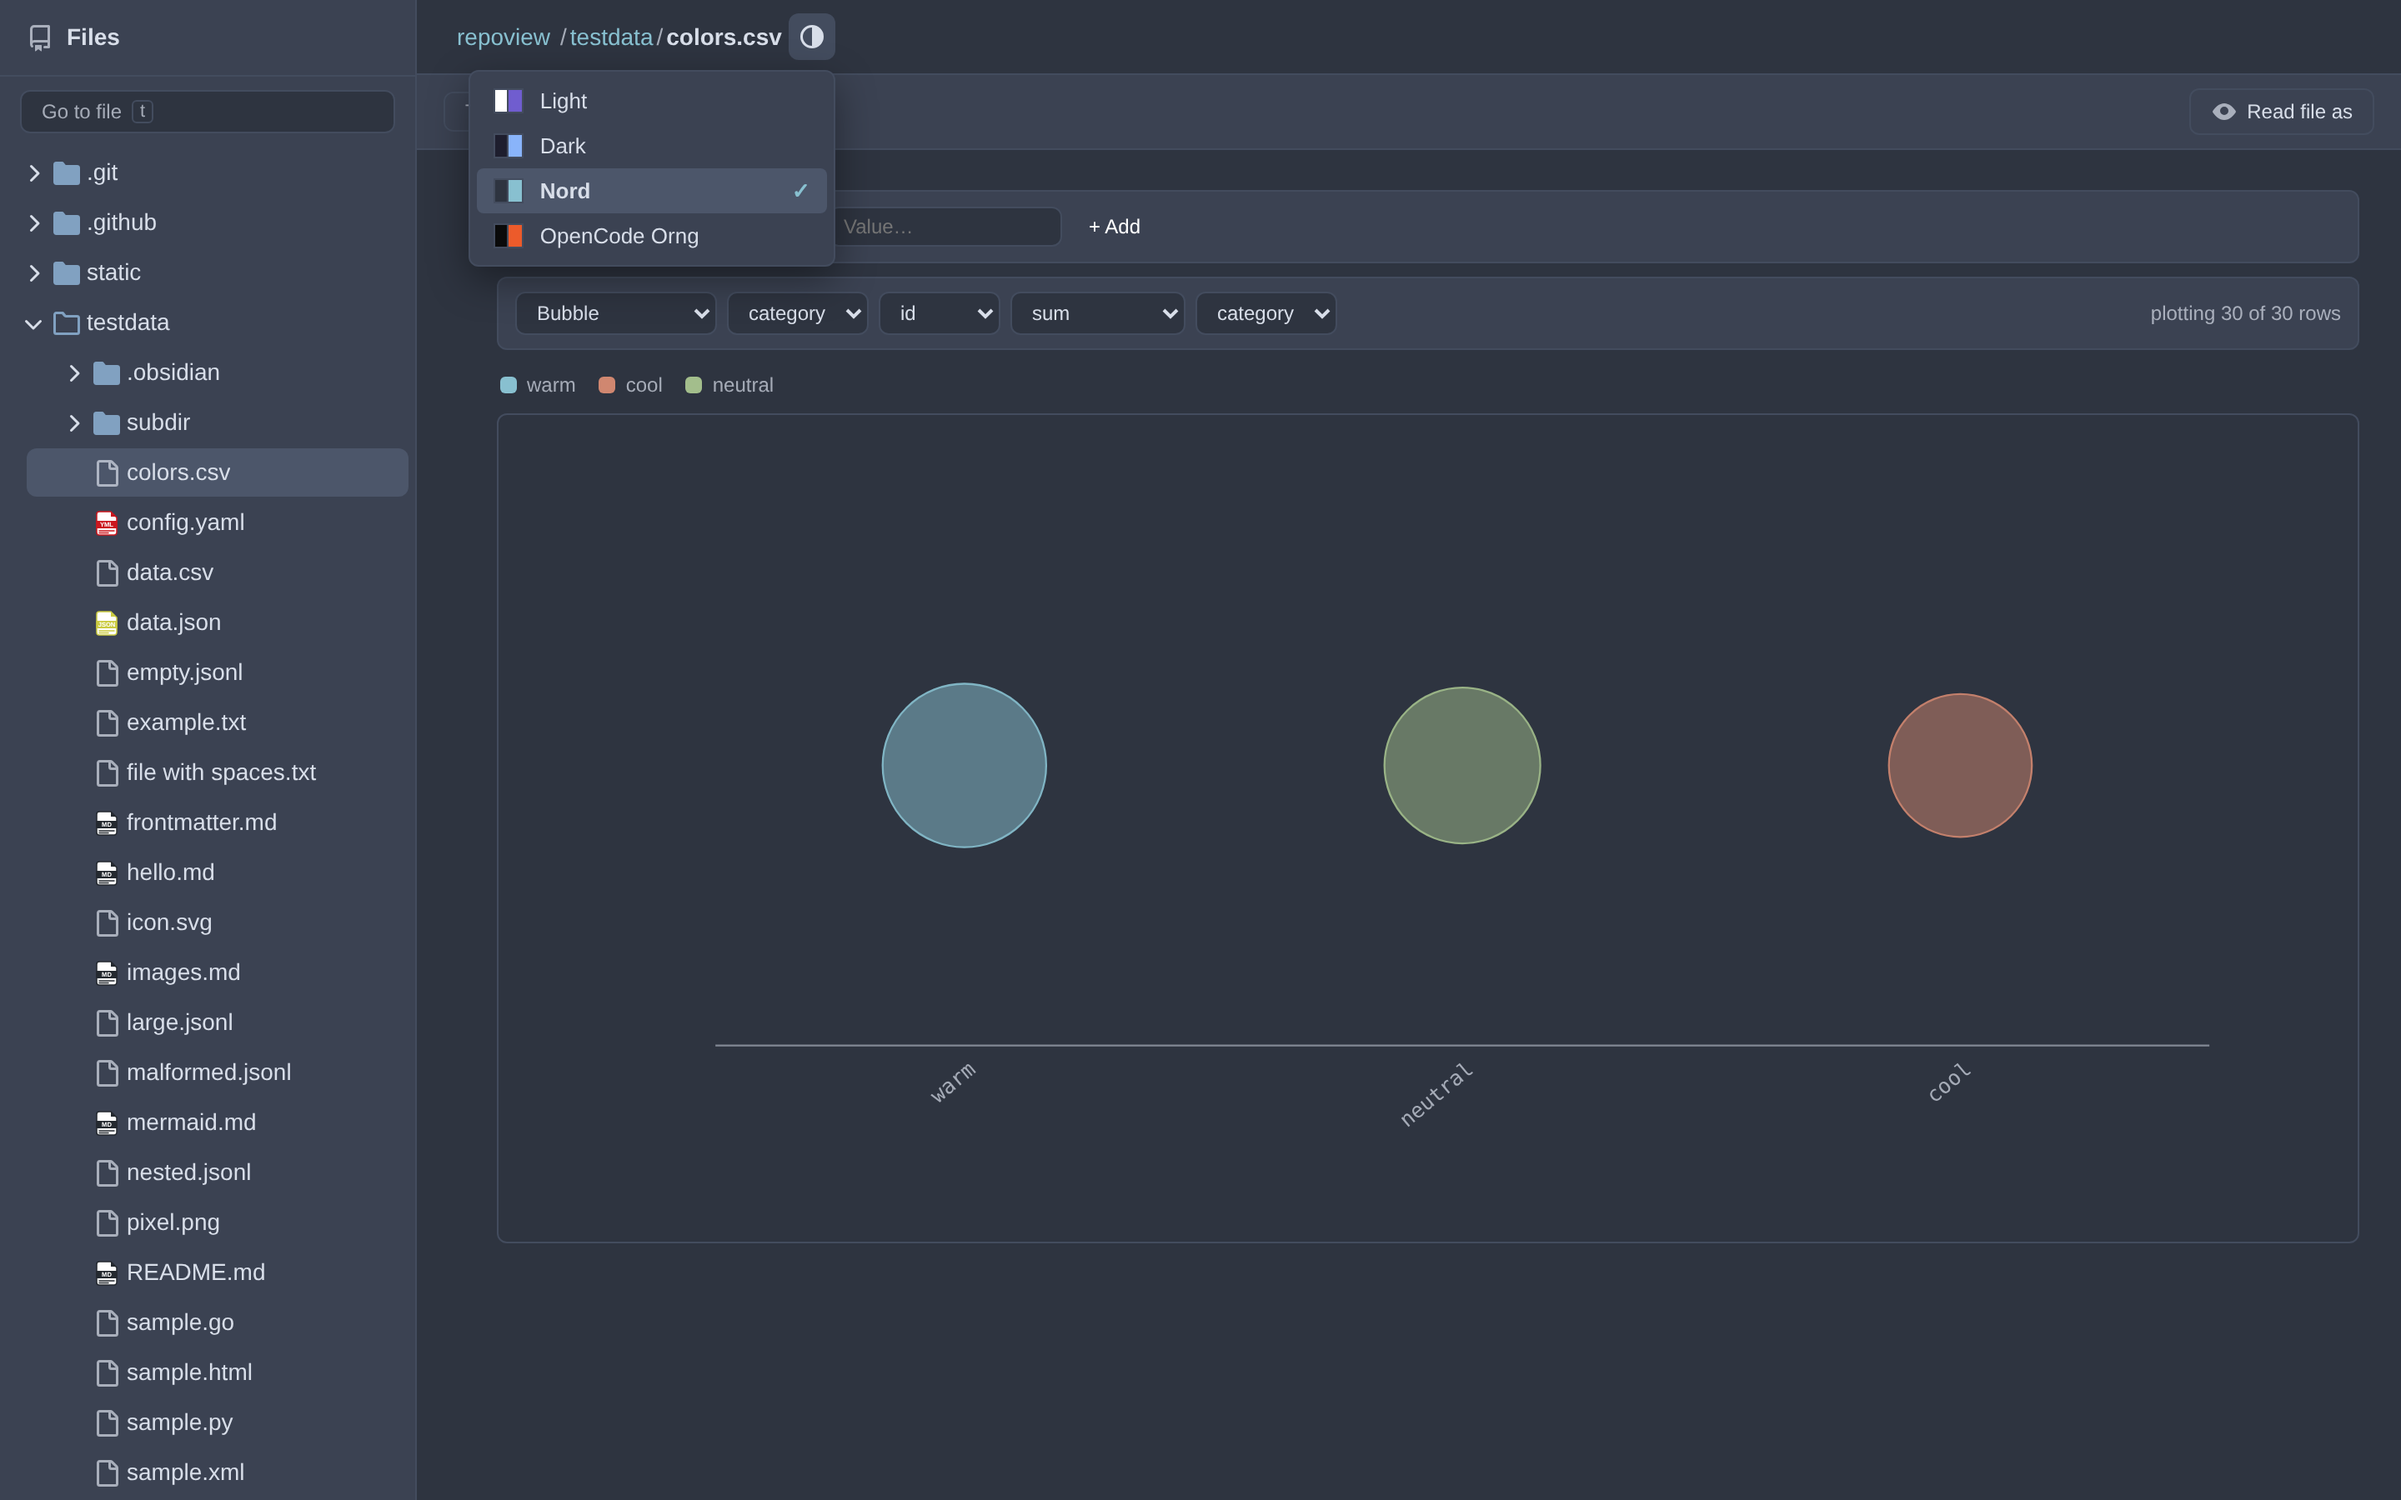
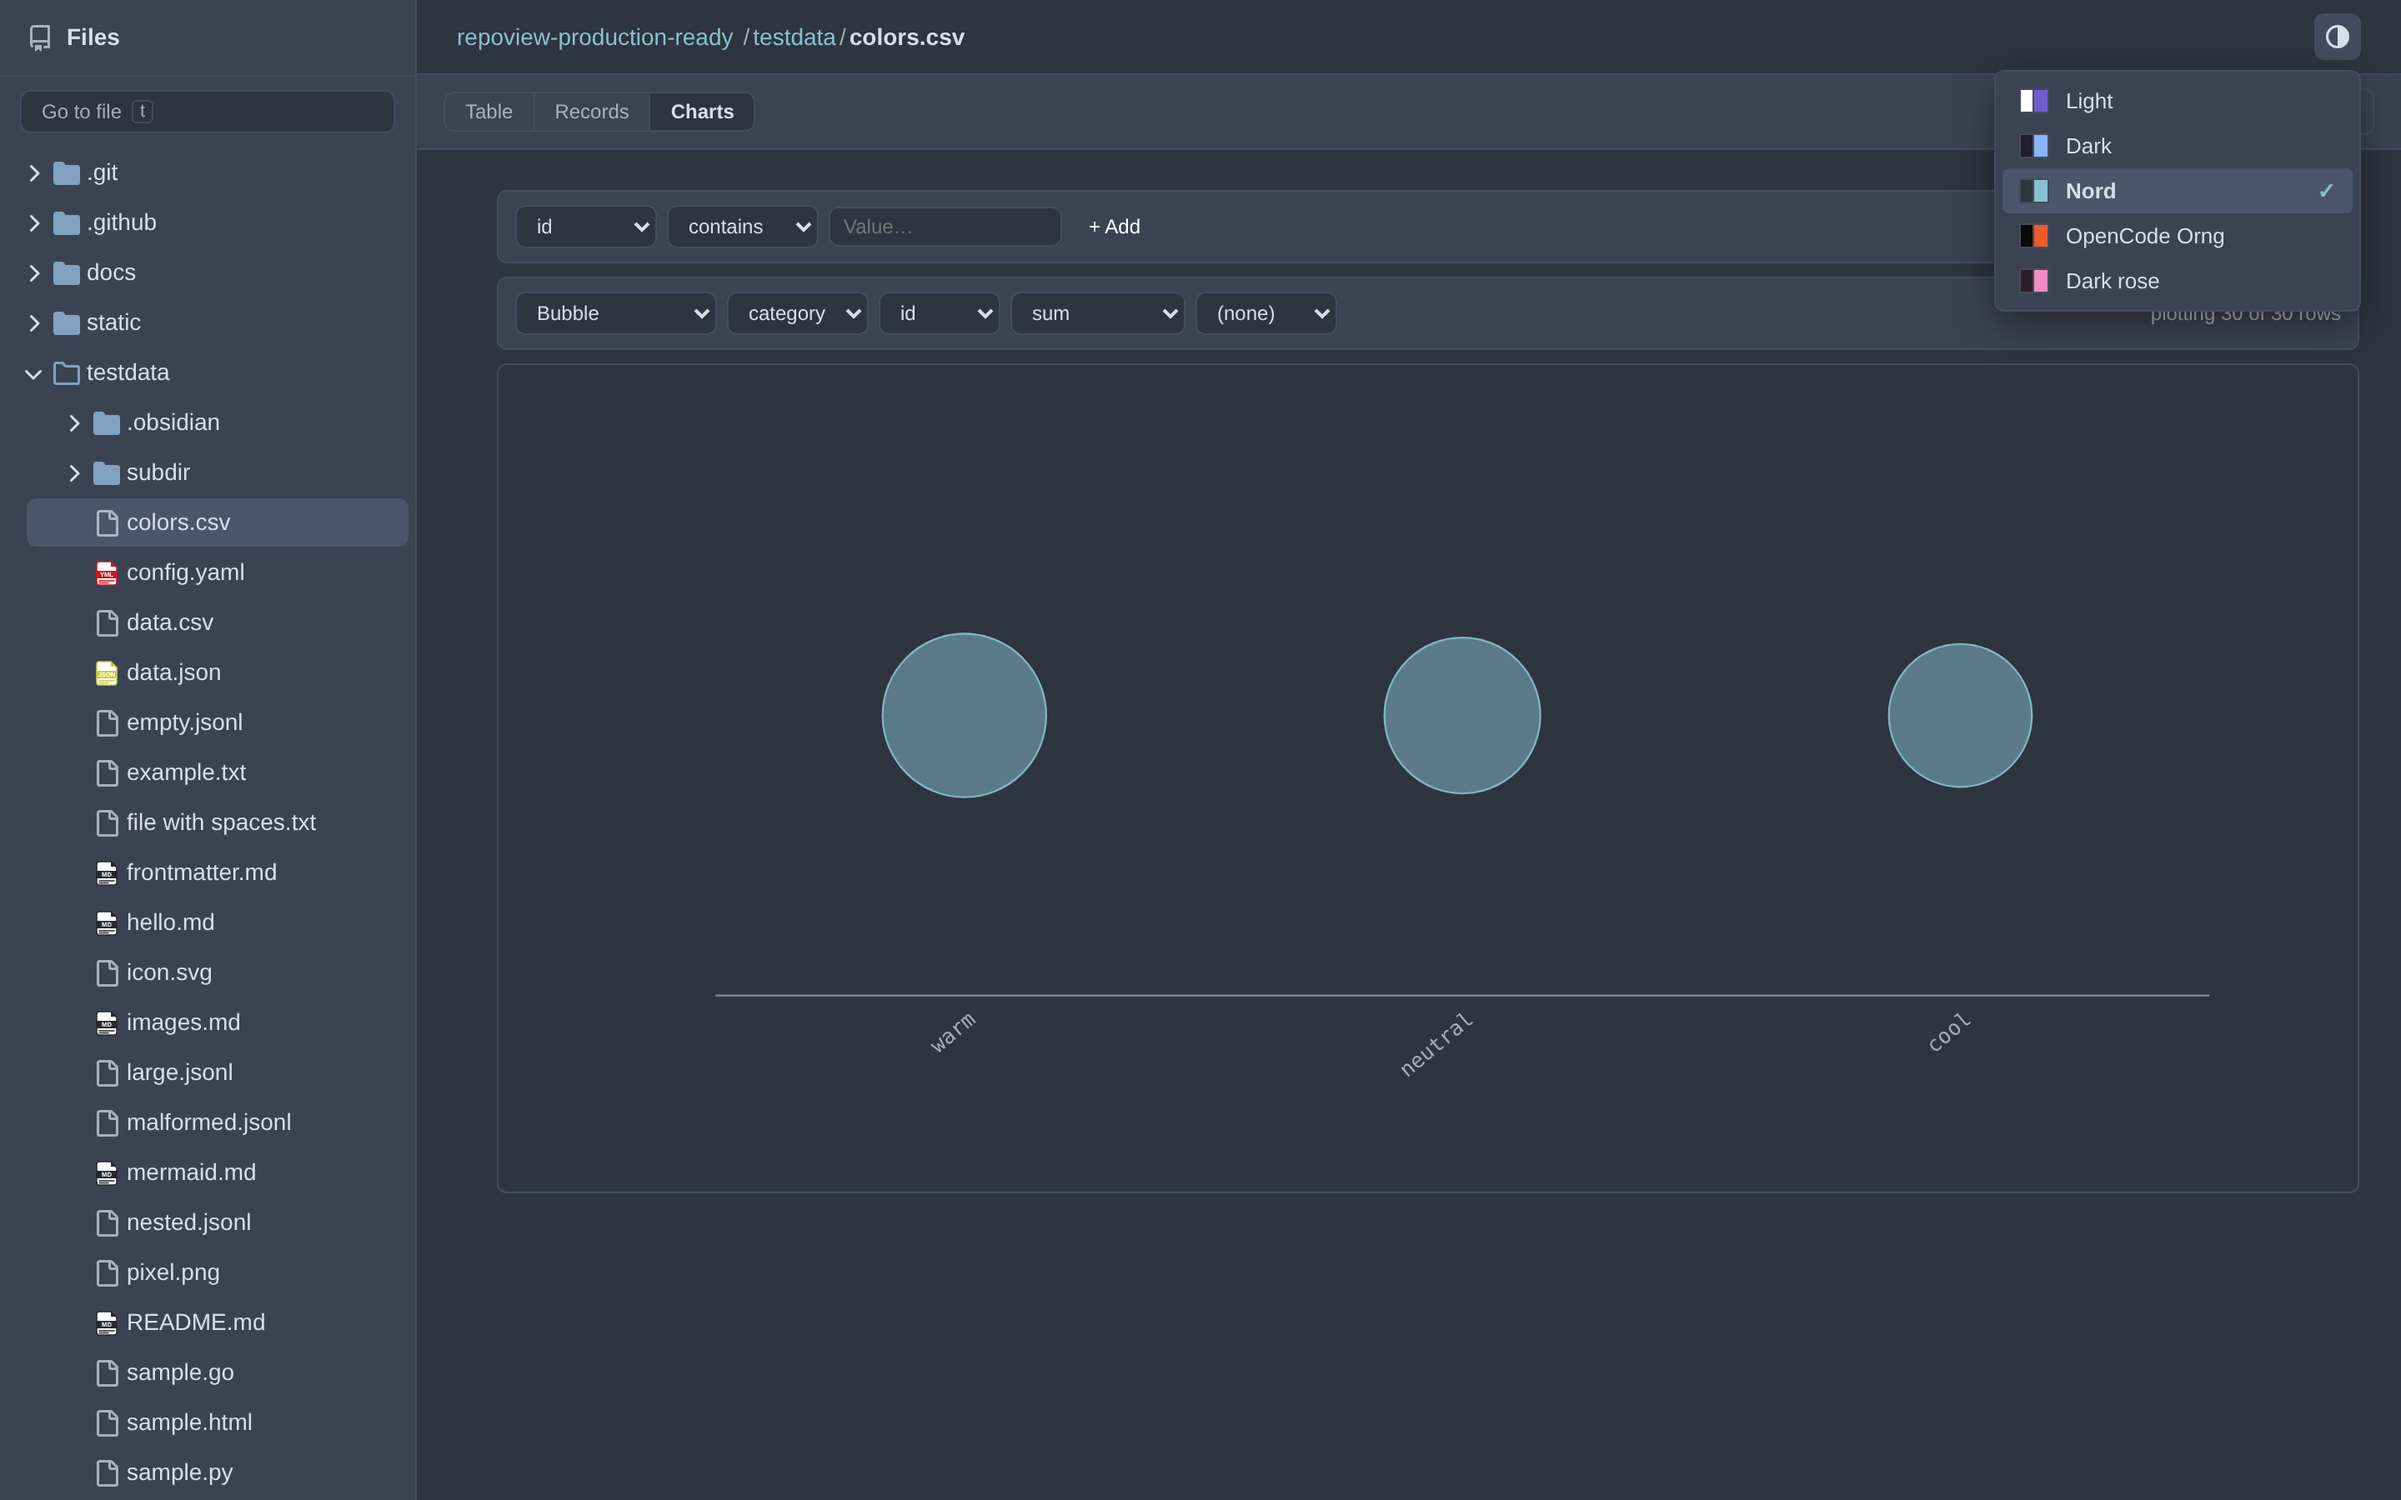
docs: re-film README stills, outdated-GIF note, public-repo phrasing

diff --git a/CHANGES.md b/CHANGES.md
@@ -37,6 +37,8 @@ hardening for the device handover.
 | 22 | `633b21f` | docs | documentation.md + custom-themes guide | Docs |
 | 23 | `9c02eb1` | feat | collapse & fold for hierarchical views | UI |
 | 24 | `425d66d` | feat | styled fold switch + Dark rose theme | UI |
+| 25 | `fd98d04` | docs | re-point hash pins after branch identity rewrite | Housekeeping |
+| 26 | `pending` | docs | re-film README stills, outdated-GIF note, public-repo notes | Docs |
 
 ---
 
@@ -909,6 +911,50 @@ diff stat (17 files, +6514/−141) and the verification gates are unchanged —
 One consequence that cannot be migrated: the "pin" commit *messages*
 (`chore: pin CHANGES.md §N (hash)`) still cite the pre-rewrite hashes; the
 section titles above are the authoritative hash record.
+
+---
+
+## 26. docs: re-film README stills, outdated-GIF note, public-repo phrasing
+
+**Summary.** The fork ground is going public, so the README gets a face
+renewal. The three staged stills of §19 were re-filmed against the
+current build's live server (the originals predate collapse & fold and
+the Dark rose theme), a fourth still joins them for the newest story,
+and the recorded demo GIF keeps its prime spot — but with a blockquote
+note marking it as filmed on an earlier build, handing the lead to the
+*Screenshots* section. Framing discipline as in §19: one story per
+frame, restrained real strings, no dead corners, and every shot taken of
+the live product with DOM-asserted preconditions (five theme-menu
+entries with Nord checked, chart bubbles present, wiki anchors resolved,
+the fold switch reporting *Expand*) so a frame cannot show a state the
+app was not in.
+
+### Changed
+- `README.md`: `charts-themes-nord.png`, `code-view-dark.png` and
+  `read-as-wiki.png` re-filmed at the same 2880×1800 framing (1440×900
+  viewport, deviceScaleFactor 2); captions unchanged — same scenes, same
+  stories, current pixels
+- New still `docs/screenshots/folds-rose.png`: all indent-folded ranges
+  of `main.go` collapsed at once via the file-header switch (reading
+  *Expand*), in the Dark rose theme
+- Demo GIF blockquote note: older build, stills below are current
+- Install/Updating caveats re-phrased from this repository's
+  private-fork phase to generic guidance (private mirrors need
+  authentication; update checks stay silent until a tagged release
+  exists), since the repository is going public
+- `CHANGELOG.md` `[Unreleased]` records the refresh
+
+### Craft notes
+- The capture server is the built binary serving the repo root itself,
+  keeping "the viewer reading its own source" literally true. The first
+  attempt ran testdata-rooted and had to be replaced: it survived a kill
+  and kept the port bound, and its SPA catch-all answered HTTP 200 for
+  nonexistent paths — a 200 that is not a file. Framing assertions must
+  check the DOM, never the status code.
+- Screens were re-filmed, not rebuilt: a faux UI of a screenshotable app
+  would undercut the viewer's honest-UI pitch (same verdict as §19).
+- `documentation.md` remains a tracked file (merged into the README by
+  `ee258ea`, not deleted); the new code-view stills show it in the tree.
 
 ---
 

diff --git a/README.md b/README.md
@@ -4,6 +4,10 @@ A lightweight, single-binary local folder viewer that replicates the GitHub UI f
 
 ![repoview-demo](https://github.com/user-attachments/assets/940a295f-bbc4-4949-b1a1-770f39781b2c)
 
+> **Note:** the demo GIF is from an earlier build — it predates theming,
+> CSV charts, the filter toolbar, "Read file as" and collapse & fold. The
+> stills in [Screenshots](#screenshots) below are current.
+
 ## Screenshots
 
 **CSV Charts, themed.** The Charts view on `colors.csv` — a Bubble of the
@@ -24,6 +28,13 @@ Obsidian `[[wiki links]]` resolve to navigable anchors (broken targets are
 marked), with the Read-as menu open.
 
 ![Read file as menu over a wiki-rendered note](docs/screenshots/read-as-wiki.png)
+
+**Collapse & fold, Dark rose.** Every indent-foldable range of `main.go`
+collapsed at once from the file header, the switch reading *Expand*;
+single ranges still fold from the gutter caret. Filmed in Dark rose to
+show the fold UI holds up under a tinted theme.
+
+![All folds collapsed in Dark rose with the header switch showing Expand](docs/screenshots/folds-rose.png)
 
 ## Why
 
@@ -75,8 +86,9 @@ irm https://raw.githubusercontent.com/kittystrikeforce911/repoview-ksf911/master
 
 Downloads the latest release binary to `%LOCALAPPDATA%\Programs\repoview`.
 
-> On a **private** repository the raw-script URL and the release download
-> require an authenticated session or token; from-source install avoids that.
+> If you mirror this repository privately, the raw-script URL and the
+> release downloads on the mirror require an authenticated session or
+> token; installing from source avoids that.
 
 ## Usage
 
@@ -121,9 +133,10 @@ repoview update --check   # check for updates without installing
 
 The update command downloads the latest release from GitHub, shows release notes, and replaces the current binary.
 
-> Until this repository publishes its first tag-driven release, the update
-> checks resolve to "no release" and stay silent; `repoview update` reports
-> the missing release instead of downloading anything.
+> The update check reads the GitHub Releases API; until a tagged release
+> is published, it resolves to "no release" and stays silent, and
+> `repoview update` reports the missing release instead of downloading
+> anything.
 
 ### Access from other devices
 

diff --git a/CHANGELOG.md b/CHANGELOG.md
@@ -2,6 +2,8 @@
 
 ## [Unreleased]
 
+- [changed] README screenshots re-filmed on the current build: the charts/theme-picker, Dark code view and Read-as wiki stills were retaken after collapse & fold and the Dark rose theme landed, a fourth still (`docs/screenshots/folds-rose.png`) shows every fold of `main.go` collapsed in Dark rose, and the demo GIF is kept at the top with a note marking it as recorded on an earlier build
+- [changed] Install and updating caveats re-phrased for a public repository instead of this repository's private-fork phase: authentication applies to private mirrors, and update checks stay silent until a tagged release is published
 - [changed] Repository re-homed to `kittystrikeforce911/repoview-ksf911`: the README, installers (`install.sh`, `install.ps1`), the update checker (`repoview update` release API) and the release script now reference the new repository, the broken `go install <url>@latest` shortcut was replaced with clone-and-build steps, and `release.sh` pushes tags to the fork instead of the original upstream
 - [changed] Documentation consolidated: `documentation.md` merged into `README.md` as the *Theming & custom themes* section (anchor `#theming--custom-themes`); de-duplicated the theming feature bullet; internal handover documents removed (`TODO.md`, `PRD.md`, `CLAUDE.md`, `AGENTS.md`) with the Mermaid-CDN limitation salvaged into README's *Known limitations*
 - [fixed] API hardening: `/api/file` no longer renders arbitrarily large files inline (size cap above 16 MB now reports `tooLarge` with a Download link backed by `/api/raw`), read-only API endpoints reject non-GET requests with 405, and the `/ws` WebSocket now rejects cross-origin upgrades (same-origin host check) so web pages in other tabs cannot connect to your local viewer
